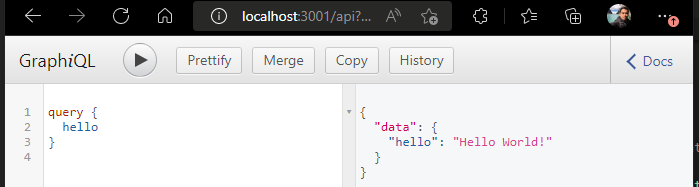
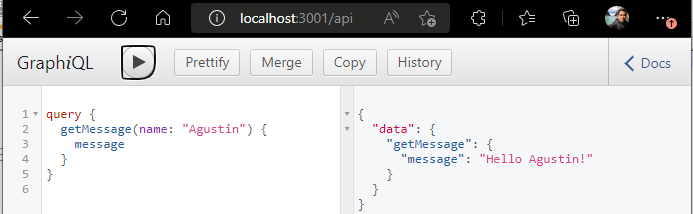
:sparkles: 09 GraphQL ObjectTye
Add MessageType for result, query receive a name for show message.

diff --git a/src/index.ts b/src/index.ts
@@ -1,22 +1,11 @@
 require("dotenv").config();
-import express, { Application, Request, Response } from "express";
+import express, { Application } from "express";
 import { Logger } from "@utils/logger";
-import { buildSchema } from "graphql";
 import { graphqlHTTP } from "express-graphql";
+import { schema } from "@graphql";
 
 const api = async () => {
   const { PORT = 3000, NODE_ENV = "development" } = process.env;
-  const msg: string = "Hello World!";
-  const schema = buildSchema(`
-    type Query {
-        hello: String
-    }
-  `);
-  const resolvers = {
-    hello: () => {
-      return msg;
-    },
-  };
   const app: Application = express();
 
   app.use(express.json());
@@ -25,7 +14,6 @@ const api = async () => {
     graphqlHTTP({
       schema,
       graphiql: NODE_ENV === "development",
-      rootValue: resolvers,
     })
   );
   app.listen(PORT, () => {

diff --git a/src/graphql/queries/message.ts b/src/graphql/queries/message.ts
@@ -1,0 +1,15 @@
+import { GraphQLString } from "graphql";
+import { MessageType } from "@type_defs/message";
+
+export const GET_MESSAGE = {
+  type: MessageType,
+  description: "Get Message",
+  args: {
+    name: { type: GraphQLString },
+  },
+  resolve(parent: any, args: any) {
+    return {
+        message: `Hello ${args.name}!`
+    }
+  },
+};

diff --git a/src/graphql/index.ts b/src/graphql/index.ts
@@ -1,0 +1,14 @@
+import { GraphQLObjectType, GraphQLSchema } from "graphql";
+import { GET_MESSAGE } from "@queries/message";
+
+const Query = new GraphQLObjectType({
+  name: "Query",
+  description: "Query List",
+  fields: {
+    getMessage: GET_MESSAGE,
+  },
+});
+
+export const schema = new GraphQLSchema({
+  query: Query,
+});

diff --git a/src/graphql/type_defs/message.ts b/src/graphql/type_defs/message.ts
@@ -1,0 +1,9 @@
+import { GraphQLObjectType, GraphQLString } from "graphql";
+
+export const MessageType = new GraphQLObjectType({
+  name: "Message",
+  description: "Message Result",
+  fields: () => ({
+    message: { type: GraphQLString },
+  }),
+});

diff --git a/README.md b/README.md
@@ -1,4 +1,4 @@
-# graphql-api-nodejs / 08 GraphQL Basic
+# graphql-api-nodejs / 09 GraphQL ObjectType
 GraphQL API with NodeJS.
 ## Get starter
 Install nodejs: https://nodejs.dev/en/download/
@@ -23,7 +23,7 @@ Create typscript config
 ```console
 tsc --init
 ```
-Add outDir, rootDir, bseUrl, paths, sourceMap into compilerOptions in tsconfig.json
+Add sourceMap, outDir, rootDir, bseUrl and paths into compilerOptions in tsconfig.json
 ```json
 {
   "compilerOptions": {
@@ -36,6 +36,15 @@ Add outDir, rootDir, bseUrl, paths, sourceMap into compilerOptions in tsconfig.j
     "paths": {
       "@utils/*": [
         "src/utils/*"
+      ],
+      "@graphql": [
+        "src/graphql"
+      ],
+      "@queries/*": [
+        "src/graphql/queries/*"
+      ],
+      "@type_defs/*": [
+        "src/graphql/type_defs/*"
       ]
     },
     "esModuleInterop": true,
@@ -153,27 +162,63 @@ export const Logger = createLogger({
   ],
 });
 ```
+Create src/graphql/type_defs/message.ts
+```javascript
+import { GraphQLObjectType, GraphQLString } from "graphql";
+
+export const MessageType = new GraphQLObjectType({
+  name: "Message",
+  description: "Message Result",
+  fields: () => ({
+    message: { type: GraphQLString },
+  }),
+});
+```
+Create src/graphql/queries/message.ts
+```javascript
+import { GraphQLString } from "graphql";
+import { MessageType } from "@type_defs/message";
+
+export const GET_MESSAGE = {
+  type: MessageType,
+  description: "Get Message",
+  args: {
+    name: { type: GraphQLString },
+  },
+  resolve(parent: any, args: any) {
+    return {
+        message: `Hello ${args.name}!`
+    }
+  },
+};
+```
+Create src/graphql/index.ts
+```javascript
+import { GraphQLObjectType, GraphQLSchema } from "graphql";
+import { GET_MESSAGE } from "@queries/message";
+
+const Query = new GraphQLObjectType({
+  name: "Query",
+  description: "Query List",
+  fields: {
+    getMessage: GET_MESSAGE,
+  },
+});
+
+export const schema = new GraphQLSchema({
+  query: Query,
+});
+```
 Create src/index.ts
 ```javascript
 require("dotenv").config();
-import express, { Application, Request, Response } from "express";
+import express, { Application } from "express";
 import { Logger } from "@utils/logger";
-import { buildSchema } from "graphql";
 import { graphqlHTTP } from "express-graphql";
+import { schema } from "@graphql";
 
 const api = async () => {
   const { PORT = 3000, NODE_ENV = "development" } = process.env;
-  const msg: string = "Hello World!";
-  const schema = buildSchema(`
-    type Query {
-        hello: String
-    }
-  `);
-  const resolvers = {
-    hello: () => {
-      return msg;
-    },
-  };
   const app: Application = express();
 
   app.use(express.json());
@@ -182,7 +227,6 @@ const api = async () => {
     graphqlHTTP({
       schema,
       graphiql: NODE_ENV === "development",
-      rootValue: resolvers,
     })
   );
   app.listen(PORT, () => {
@@ -203,17 +247,21 @@ Result:
 $ yarn build
 yarn run v<#.##.## your version>
 $ webpack
-asset index.js 1.72 KiB [emitted] [minimized] (name: main)
-cacheable modules 2.62 KiB
-  ./src/index.ts 1.87 KiB [built] [code generated]
+asset index.js 2.33 KiB [emitted] [minimized] (name: main)
+cacheable modules 3.62 KiB
+  modules by path ./src/graphql/ 1.24 KiB
+    ./src/graphql/index.ts 437 bytes [built] [code generated]
+    ./src/graphql/queries/message.ts 477 bytes [built] [code generated]
+    ./src/graphql/type_defs/message.ts 353 bytes [built] [code generated]
+  ./src/index.ts 1.64 KiB [built] [code generated]
   ./src/utils/logger.ts 764 bytes [built] [code generated]
 external "dotenv" 42 bytes [built] [code generated]
 external "express" 42 bytes [built] [code generated]
-external "graphql" 42 bytes [built] [code generated]
 external "express-graphql" 42 bytes [built] [code generated]
 external "winston" 42 bytes [built] [code generated]
-webpack 5.74.0 compiled successfully in 2400 ms
-Done in 3.97s.
+external "graphql" 42 bytes [built] [code generated]
+webpack 5.74.0 compiled successfully in 2491 ms
+Done in 3.82s.
 ```
 Start project with Yarn
 ```console
@@ -224,7 +272,7 @@ Result:
 $ yarn start
 yarn run v<#.##.## your version>
 $ node ./dist/index.js
-[2022-08-30T05:23:37.997Z] info: Server running in port 3001
+[2022-08-30T07:28:12.160Z] info: Server runnig in port 3001
 ```
 Start project with Yarn in DEV
 ```console
@@ -240,7 +288,7 @@ $ nodemon ./src/index.ts
 [nodemon] watching path(s): *.*
 [nodemon] watching extensions: ts,json
 [nodemon] starting `ts-node -r tsconfig-paths/register ./src/index.ts`
-[2022-08-30T05:21:42.858Z] info: Server running in port 3001
+[2022-08-30T07:27:45.199Z] info: Server runnig in port 3001
 ```
 Result in browser
 
